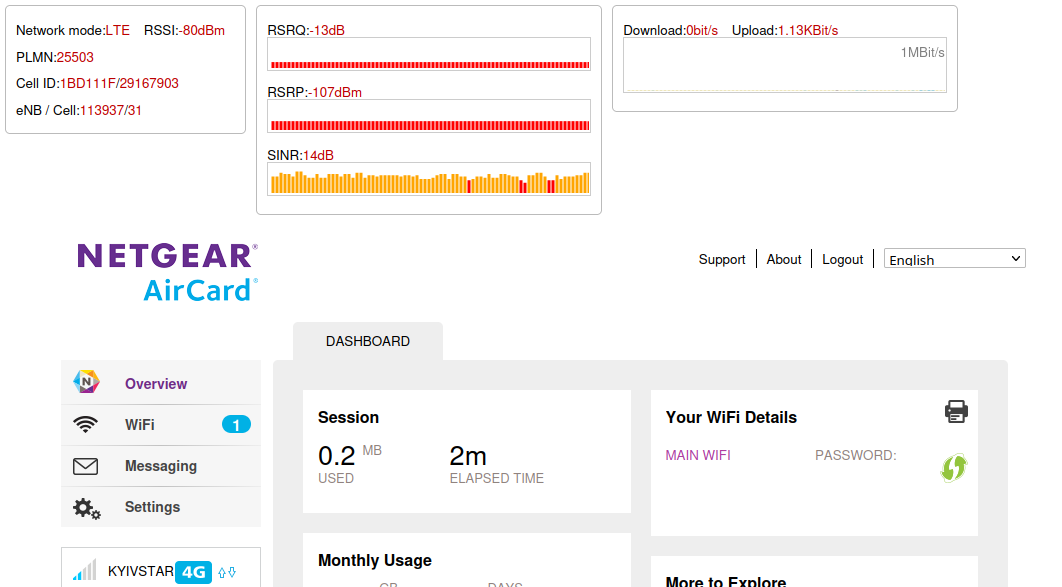
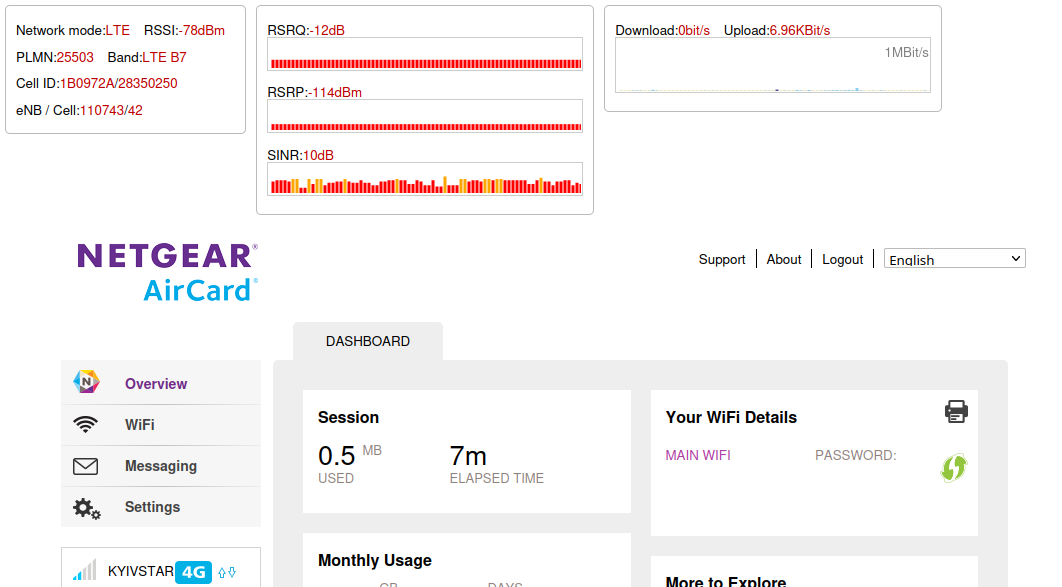
Add LTE band to Netgear dashboard
There is actually current band in Netgear device info, however this dashboard also shows actual number of CA bands

diff --git a/NetgearEAS.min.js b/NetgearEAS.min.js
@@ -1,1 +1,1 @@
-javascript:const UPDATE_MS=2e3,boxcar=78,gt=3,gw=boxcar*(gt+1),gh=30,ghd=1.75*gh,SIZE_KB=1024,SIZE_MB=1048576;let mode="",history={sinr:[],rsrp:[],rsrq:[],rscp:[],ecio:[],dl:0,ul:0,dlultime:0,dlul:[]};function formatBandwidth(bytesPerSec){bytesPerSec*=8;return bytesPerSec<SIZE_KB?bytesPerSec+"bit/s":bytesPerSec<SIZE_MB?(bytesPerSec/SIZE_KB).toFixed(2)+"KBit/s":(bytesPerSec/SIZE_MB).toFixed(2)+"MBit/s"}function getModeDescription(mode){switch(mode){case"GsmService":return"GSM";case"WcdmaService":return"WCDMA";case"LteService":return"LTE"}return"Unknown mode"}function setParam(param,val){try{document.getElementById(param).innerHTML=val}catch(param){}}function setVisible(id,visible){document.getElementById(id).style.display=visible?"block":"none"}function setMode(newMode){if(mode!==newMode){for(var k in mode=newMode,console.log("Network mode set to",mode),setVisible("status_3g",!1),setVisible("status_lte",!1),setVisible("u3g",!1),setVisible("ulte",!1),history)history[k]=Array.isArray(history[k])?[]:0;"WCDMA"===mode?(setVisible("status_3g",!0),setVisible("u3g",!0)):"LTE"===mode&&(setVisible("status_lte",!0),setVisible("ulte",!0))}}function barGraph(p,val,min,max){(val=max<val?max:val)<min&&(val=min),history[p].unshift(val),history[p].length>boxcar&&history[p].pop();let html=`<svg version="1.1" viewBox="0 0 ${gw} ${gh}" width="${gw}" height="${gh}" preserveAspectRatio="xMaxYMax slice" style="border:1px solid #ccc;padding:1px;margin-top:-6px;width:${gw}px;">`;for(let x=0;x<history[p].length;x++){var pax=(gt+1)*(x+1),pay=gh-1;let pby=gh-(history[p][x]-min)/(max-min)*gh;isNaN(pby)&&(pby=pay);var pc=(history[p][x]-min)/(max-min)*100;html+=`<line x1="${pax}" y1="${pay}" x2="${pax}" y2="${pby}" stroke="${pc<50?"red":pc<85?"orange":"green"}" stroke-width="${gt}"></line>`}html+="</svg>",document.getElementById("b"+p).innerHTML=html}function nearestFib(x){let f1=0,f2=1,fn=0;for(let n=1;n<20&&!(x<(fn=f1+f2));n++)f2=f1,f1=fn;return fn}function barGraphDlUl(p,valDl,valUl){history[p].unshift([8*valDl,8*valUl]),history[p].length>boxcar&&history[p].pop();var valDl=history[p].reduce((accum,current)=>[Math.max(accum[0],current[0]),Math.max(accum[1],current[1])]),valUl=nearestFib(Math.max(valDl[0],valDl[1])/SIZE_MB),maxPlot=valUl*SIZE_MB;let html=`<svg version="1.1" viewBox="0 0 ${gw} ${ghd}" width="${gw}" height="${ghd}" preserveAspectRatio="xMaxYMax slice" style="border:1px solid #ccc;padding:1px;margin-top:-6px;width:${gw}px;">`;for(let x=0;x<history[p].length;x++){var dl=history[p][x][0],ul=history[p][x][1],pax=(gt+1)*(x+1),pay=ghd-1,pbyDl=ghd*(1-dl/maxPlot),pbyUl=ghd*(1-ul/maxPlot);let pby1=pay,pby2=pay,color2="grey";color2=ul<dl?(pby1=pbyUl,pby2=pbyDl,"#332288"):(pby1=pbyDl,pby2=pbyUl,"#88CCEE"),html=(html+=`<line x1="${pax}" y1="${pay}" x2="${pax}" y2="${pby1}" stroke="#DDCC77" stroke-width="${gt}"></line>`)+`<line x1="${pax}" y1="${pby1}" x2="${pax}" y2="${pby2}" stroke="${color2}" stroke-width="${gt}"></line>`}html=html+`<text x="${gw}" y="6" dominant-baseline="hanging" text-anchor="end" style="fill:gray;">${valUl.toFixed(0)}MBit/s</text>`+"</svg>",document.getElementById("b"+p).innerHTML=html}function currentBand(){$.ajax({type:"GET",async:!0,url:"/api/model.json?internalapi=1",error:function(request,status,error){console.log("Error: Cannot get Signal data:",request.status,"\nmessage:",request.responseText,"\nerror:",error)},success:function(data){data=JSON.parse(data);if(data){var currentMode=getModeDescription(data.wwan.currentNWserviceType);let caStatus=data.wwan.ca.SCCcount;var fullMode=""+currentMode+(0===(caStatus=void 0===caStatus?0:caStatus)?"":"-A");let report="Network mode : "+fullMode;setParam("mode",fullMode),setMode(currentMode);fullMode=data.wwan.signalStrength.rssi+"dBm",currentMode=(report+=`\nRSSI : `+fullMode,setParam("rssi",fullMode),data.wwanadv.MCC+data.wwanadv.MNC),fullMode=(report+=`\nPLMN : `+currentMode,setParam("plmn",currentMode),data.wwanadv.cellId),currentMode=fullMode.toString(16).toUpperCase();if(report+=`\nCell ID : ${currentMode} / `+fullMode,setParam("cellidhex",currentMode),setParam("cellid",fullMode),"WCDMA"===mode){var currentMode=data.wwan.signalStrength.rscp,ecio=data.wwan.signalStrength.ecio,currentMode=(report+=`\nRSCP : ${currentMode}dBm EC/IO : ${ecio}dB`,setParam("rscp",currentMode+"dBm"),barGraph("rscp",currentMode,-100,-70),setParam("ecio",ecio+"dB"),barGraph("ecio",ecio,-10,-2),fullMode>>16),ecio=65535&fullMode,currentMode=(setParam("rnc",currentMode),Math.floor(ecio/10)),ecio=ecio-10*currentMode;setParam("nb",currentMode),setParam("cc",ecio)}else if("LTE"===mode){var currentMode=data.wwan.signalStrength.rsrq,ecio=data.wwan.signalStrength.rsrp,sinr=data.wwan.signalStrength.sinr,ecio=(report+=`\nRSRQ/RSRP/SINR : ${currentMode}dB/${ecio}dBm/${sinr}dB`,setParam("rsrp",ecio+"dBm"),barGraph("rsrp",ecio,-130,-60),setParam("rsrq",currentMode+"dB"),barGraph("rsrq",currentMode,-16,-3),setParam("sinr",sinr+"dB"),barGraph("sinr",sinr,0,24),fullMode>>8);const id=255&fullMode;setParam("enb",ecio),setParam("cell",id)}var dlRateStr,ulRateStr,currentMode=data.wwan.dataTransferredRx,sinr=data.wwan.dataTransferredTx,fullMode=(new Date).getTime();0!==history.dlultime&&(ecio=1e3/(fullMode-history.dlultime),data=0===history.dl?0:Math.floor((currentMode-history.dl)*ecio),ecio=0===history.ul?0:Math.floor((sinr-history.ul)*ecio),dlRateStr=formatBandwidth(data),ulRateStr=formatBandwidth(ecio),report+=`\nDownload : ${dlRateStr} Upload : `+ulRateStr,setParam("dl",dlRateStr),setParam("ul",ulRateStr),barGraphDlUl("dlul",data,ecio),history.dl=currentMode,history.ul=sinr),history.dlultime=fullMode,console.log(report)}}})}function statusHeader(){document.body.insertAdjacentHTML("afterbegin",'<style>#mode,#rssi,#plmn,#cellidhex,#cellid,#nb,#cc,#rnc,#enb,#cell,#rscp,#ecio,#rsrq,#rsrp,#sinr,#ul,#dl{color:#b00;font-weight:strong;}.f{float:left;border:1px solid #bbb;border-radius:5px;padding:10px;line-height:2em;margin:5px;}.f ul{margin:0;padding:0;}.f ul li{display:inline;margin-right:10px;}</style><div style="display:block;overflow:auto;"><div class="f" id="status_general"><ul><li>Network mode:<span id="mode">#</span></li><li>RSSI:<span id="rssi">#</span></li></ul><ul><li>PLMN:<span id="plmn">#</span></li></ul><ul><li>Cell ID:<span id="cellidhex">#</span>/<span id="cellid">#</span></li></ul><ul id="u3g"><li>NB / Cell:<span id="nb">#</span>/<span id="cc">#</span></li><li>RNC-ID:<span id="rnc">#</span></li></ul><ul id="ulte"><li>eNB / Cell:<span id="enb">#</span>/<span id="cell">#</span></li></ul></div><div class="f" id="status_3g">RSCP:<span id="rscp">#</span><div id="brscp"></div>EC/IO:<span id="ecio">#</span><div id="becio"></div></div><div class="f" id="status_lte">RSRQ:<span id="rsrq">#</span><div id="brsrq"></div>RSRP:<span id="rsrp">#</span><div id="brsrp"></div>SINR:<span id="sinr">#</span><div id="bsinr"></div></div><div class="f" id="bandwidth"><ul><li>Download:<span id="dl">#</span></li><li>Upload:<span id="ul">#</span></li></ul><div id="bdlul"></div></div></div>'),setInterval(currentBand,UPDATE_MS)}statusHeader();
+javascript:const UPDATE_MS=2e3,boxcar=78,gt=3,gw=boxcar*(gt+1),gh=30,ghd=1.75*gh,SIZE_KB=1024,SIZE_MB=1048576;let mode="",history={sinr:[],rsrp:[],rsrq:[],rscp:[],ecio:[],dl:0,ul:0,dlultime:0,dlul:[]};function formatBandwidth(bytesPerSec){bytesPerSec*=8;return bytesPerSec<SIZE_KB?bytesPerSec+"bit/s":bytesPerSec<SIZE_MB?(bytesPerSec/SIZE_KB).toFixed(2)+"KBit/s":(bytesPerSec/SIZE_MB).toFixed(2)+"MBit/s"}function getModeDescription(mode){switch(mode){case"GsmService":return"GSM";case"WcdmaService":return"WCDMA";case"LteService":return"LTE"}return"Unknown mode"}function setParam(param,val){try{document.getElementById(param).innerHTML=val}catch(param){}}function setVisible(id,visible,t="block"){document.getElementById(id).style.display=visible?t:"none"}function setMode(newMode){if(mode!==newMode){for(var k in mode=newMode,console.log("Network mode set to",mode),setVisible("status_3g",!1),setVisible("status_lte",!1),setVisible("u3g",!1),setVisible("ulte",!1),history)history[k]=Array.isArray(history[k])?[]:0;"WCDMA"===mode?(setVisible("status_3g",!0),setVisible("u3g",!0)):"LTE"===mode&&(setVisible("status_lte",!0),setVisible("ulte",!0))}}function barGraph(p,val,min,max){(val=max<val?max:val)<min&&(val=min),history[p].unshift(val),history[p].length>boxcar&&history[p].pop();let html=`<svg version="1.1" viewBox="0 0 ${gw} ${gh}" width="${gw}" height="${gh}" preserveAspectRatio="xMaxYMax slice" style="border:1px solid #ccc;padding:1px;margin-top:-6px;width:${gw}px;">`;for(let x=0;x<history[p].length;x++){var pax=(gt+1)*(x+1),pay=gh-1;let pby=gh-(history[p][x]-min)/(max-min)*gh;isNaN(pby)&&(pby=pay);var pc=(history[p][x]-min)/(max-min)*100;html+=`<line x1="${pax}" y1="${pay}" x2="${pax}" y2="${pby}" stroke="${pc<50?"red":pc<85?"orange":"green"}" stroke-width="${gt}"></line>`}html+="</svg>",document.getElementById("b"+p).innerHTML=html}function nearestFib(x){let f1=0,f2=1,fn=0;for(let n=1;n<20&&!(x<(fn=f1+f2));n++)f2=f1,f1=fn;return fn}function barGraphDlUl(p,valDl,valUl){history[p].unshift([8*valDl,8*valUl]),history[p].length>boxcar&&history[p].pop();var valDl=history[p].reduce((accum,current)=>[Math.max(accum[0],current[0]),Math.max(accum[1],current[1])]),valUl=nearestFib(Math.max(valDl[0],valDl[1])/SIZE_MB),maxPlot=valUl*SIZE_MB;let html=`<svg version="1.1" viewBox="0 0 ${gw} ${ghd}" width="${gw}" height="${ghd}" preserveAspectRatio="xMaxYMax slice" style="border:1px solid #ccc;padding:1px;margin-top:-6px;width:${gw}px;">`;for(let x=0;x<history[p].length;x++){var dl=history[p][x][0],ul=history[p][x][1],pax=(gt+1)*(x+1),pay=ghd-1,pbyDl=ghd*(1-dl/maxPlot),pbyUl=ghd*(1-ul/maxPlot);let pby1=pay,pby2=pay,color2="grey";color2=ul<dl?(pby1=pbyUl,pby2=pbyDl,"#332288"):(pby1=pbyDl,pby2=pbyUl,"#88CCEE"),html=(html+=`<line x1="${pax}" y1="${pay}" x2="${pax}" y2="${pby1}" stroke="#DDCC77" stroke-width="${gt}"></line>`)+`<line x1="${pax}" y1="${pby1}" x2="${pax}" y2="${pby2}" stroke="${color2}" stroke-width="${gt}"></line>`}html=html+`<text x="${gw}" y="6" dominant-baseline="hanging" text-anchor="end" style="fill:gray;">${valUl.toFixed(0)}MBit/s</text>`+"</svg>",document.getElementById("b"+p).innerHTML=html}function currentBand(){$.ajax({type:"GET",async:!0,url:"/api/model.json?internalapi=1",error:function(request,status,error){console.log("Error: Cannot get Signal data:",request.status,"\nmessage:",request.responseText,"\nerror:",error)},success:function(data){data=JSON.parse(data);if(data){var currentMode=getModeDescription(data.wwan.currentNWserviceType);let caStatus=data.wwan.ca.SCCcount;var fullMode=""+currentMode+(0===(caStatus=void 0===caStatus?0:caStatus)?"":"-A");let report="Network mode : "+fullMode;setParam("mode",fullMode),setMode(currentMode);fullMode=data.wwanadv.curBand,currentMode=(setParam("band",fullMode),setVisible("castat",0!==caStatus,"inline"),setParam("ca",caStatus),report+=`\nBand : `+fullMode,0!==caStatus&&(report+=`+${caStatus}CA`),data.wwan.signalStrength.rssi+"dBm"),fullMode=(report+=`\nRSSI : `+currentMode,setParam("rssi",currentMode),data.wwanadv.MCC+data.wwanadv.MNC),currentMode=(report+=`\nPLMN : `+fullMode,setParam("plmn",fullMode),data.wwanadv.cellId),fullMode=currentMode.toString(16).toUpperCase();if(report+=`\nCell ID : ${fullMode} / `+currentMode,setParam("cellidhex",fullMode),setParam("cellid",currentMode),"WCDMA"===mode){var fullMode=data.wwan.signalStrength.rscp,ecio=data.wwan.signalStrength.ecio,fullMode=(report+=`\nRSCP : ${fullMode}dBm EC/IO : ${ecio}dB`,setParam("rscp",fullMode+"dBm"),barGraph("rscp",fullMode,-100,-70),setParam("ecio",ecio+"dB"),barGraph("ecio",ecio,-10,-2),currentMode>>16),ecio=65535&currentMode,fullMode=(setParam("rnc",fullMode),Math.floor(ecio/10)),ecio=ecio-10*fullMode;setParam("nb",fullMode),setParam("cc",ecio)}else if("LTE"===mode){var fullMode=data.wwan.signalStrength.rsrq,ecio=data.wwan.signalStrength.rsrp,sinr=data.wwan.signalStrength.sinr,ecio=(report+=`\nRSRQ/RSRP/SINR : ${fullMode}dB/${ecio}dBm/${sinr}dB`,setParam("rsrp",ecio+"dBm"),barGraph("rsrp",ecio,-130,-60),setParam("rsrq",fullMode+"dB"),barGraph("rsrq",fullMode,-16,-3),setParam("sinr",sinr+"dB"),barGraph("sinr",sinr,0,24),currentMode>>8);const id=255&currentMode;setParam("enb",ecio),setParam("cell",id)}var dlRateStr,ulRateStr,fullMode=data.wwan.dataTransferredRx,sinr=data.wwan.dataTransferredTx,currentMode=(new Date).getTime();0!==history.dlultime&&(ecio=1e3/(currentMode-history.dlultime),data=0===history.dl?0:Math.floor((fullMode-history.dl)*ecio),ecio=0===history.ul?0:Math.floor((sinr-history.ul)*ecio),dlRateStr=formatBandwidth(data),ulRateStr=formatBandwidth(ecio),report+=`\nDownload : ${dlRateStr} Upload : `+ulRateStr,setParam("dl",dlRateStr),setParam("ul",ulRateStr),barGraphDlUl("dlul",data,ecio),history.dl=fullMode,history.ul=sinr),history.dlultime=currentMode,console.log(report)}}})}function statusHeader(){document.body.insertAdjacentHTML("afterbegin",'<style>#mode,#rssi,#plmn,#band,#ca,#cellidhex,#cellid,#nb,#cc,#rnc,#enb,#cell,#rscp,#ecio,#rsrq,#rsrp,#sinr,#ul,#dl{color:#b00;font-weight:strong;}.f{float:left;border:1px solid #bbb;border-radius:5px;padding:10px;line-height:2em;margin:5px;}.f ul{margin:0;padding:0;}.f ul li{display:inline;margin-right:10px;}</style><div style="display:block;overflow:auto;"><div class="f" id="status_general"><ul><li>Network mode:<span id="mode">#</span></li><li>RSSI:<span id="rssi">#</span></li></ul><ul><li>PLMN:<span id="plmn">#</span></li><li>Band:<span id="band">#</span><span id="castat">+<span id="ca">#</span>CA</span></li></ul><ul><li>Cell ID:<span id="cellidhex">#</span>/<span id="cellid">#</span></li></ul><ul id="u3g"><li>NB / Cell:<span id="nb">#</span>/<span id="cc">#</span></li><li>RNC-ID:<span id="rnc">#</span></li></ul><ul id="ulte"><li>eNB / Cell:<span id="enb">#</span>/<span id="cell">#</span></li></ul></div><div class="f" id="status_3g">RSCP:<span id="rscp">#</span><div id="brscp"></div>EC/IO:<span id="ecio">#</span><div id="becio"></div></div><div class="f" id="status_lte">RSRQ:<span id="rsrq">#</span><div id="brsrq"></div>RSRP:<span id="rsrp">#</span><div id="brsrp"></div>SINR:<span id="sinr">#</span><div id="bsinr"></div></div><div class="f" id="bandwidth"><ul><li>Download:<span id="dl">#</span></li><li>Upload:<span id="ul">#</span></li></ul><div id="bdlul"></div></div></div>'),setInterval(currentBand,UPDATE_MS)}statusHeader();

diff --git a/NetgearEAS.js b/NetgearEAS.js
@@ -41,7 +41,7 @@ function formatBandwidth(bytesPerSec) {
     const RATE_MBPS = "MBit/s";
 
     const bitsPerSec = bytesPerSec * 8;
-    
+
     if (bitsPerSec<SIZE_KB) {
         return `${bitsPerSec}${RATE_BPS}`;
     }
@@ -83,8 +83,8 @@ function setParam(param, val) {
  * @param {String} id Id of a block
  * @param {Boolean} visible Flag of visibility
  */
-function setVisible(id, visible) {
-    document.getElementById(id).style.display = visible ? "block" : "none";
+function setVisible(id, visible, t="block") {
+    document.getElementById(id).style.display = visible ? t : "none";
 }
 
 /**
@@ -138,11 +138,11 @@ function barGraph(p, val, min, max) {
 
 function nearestFib(x) {
     let f1=0, f2=1, fn = 0;
-  
+
     for (let n=1; n<20; n++) {
         fn = f1 + f2;
         if (x<fn) {
-          break;
+            break;
         }
         f2 = f1;
         f1 = fn;
@@ -157,7 +157,7 @@ function barGraphDlUl(p, valDl, valUl) {
     let maxDlUl = history[p].reduce( (accum,current) => [Math.max(accum[0],current[0]),Math.max(accum[1],current[1])] );
     maxDlUl = Math.max(maxDlUl[0], maxDlUl[1]);
     const maxMb = nearestFib(maxDlUl / SIZE_MB);
-    
+
     const maxPlot = maxMb * SIZE_MB;
 
     const MARGIN=6;
@@ -218,6 +218,13 @@ function currentBand() {
                 setParam("mode", fullMode);
                 setMode(currentMode);
 
+                const band = doc.wwanadv.curBand;
+                setParam("band", band);
+                setVisible("castat", caStatus!==0, "inline");
+                setParam("ca", caStatus);
+                report += `\nBand : ${band}`;
+                if (caStatus!==0) report+=`+${caStatus}CA`;
+
                 const rssi = `${doc.wwan.signalStrength.rssi}dBm`;
                 report += `\nRSSI : ${rssi}`;
                 setParam("rssi", rssi);
@@ -236,7 +243,7 @@ function currentBand() {
                     const rscp = doc.wwan.signalStrength.rscp;
                     const ecio = doc.wwan.signalStrength.ecio;
                     report += `\nRSCP : ${rscp}dBm EC/IO : ${ecio}dB`;
-                    
+
                     setParam("rscp", `${rscp}dBm`); barGraph("rscp", rscp, -100, -70);
                     setParam("ecio", `${ecio}dB`); barGraph("ecio", ecio, -10, -2);
 
@@ -254,7 +261,7 @@ function currentBand() {
                     const rsrp = doc.wwan.signalStrength.rsrp;
                     const sinr = doc.wwan.signalStrength.sinr;
                     report += `\nRSRQ/RSRP/SINR : ${rsrq}dB/${rsrp}dBm/${sinr}dB`;
-                    
+
                     setParam("rsrp", `${rsrp}dBm`); barGraph("rsrp", rsrp, -130, -60);
                     setParam("rsrq", `${rsrq}dB`); barGraph("rsrq", rsrq, -16, -3);
                     setParam("sinr", `${sinr}dB`); barGraph("sinr", sinr, 0, 24);
@@ -277,11 +284,11 @@ function currentBand() {
                     const dlRateStr = formatBandwidth(dlRate);
                     const ulRateStr = formatBandwidth(ulRate);
                     report += `\nDownload : ${dlRateStr} Upload : ${ulRateStr}`;
-        
+
                     setParam("dl", dlRateStr);
                     setParam("ul", ulRateStr);
                     barGraphDlUl("dlul", dlRate, ulRate);
-    
+
                     history.dl = dl;
                     history.ul = ul;
                 }
@@ -299,6 +306,7 @@ const header = `<style>
     #mode,
     #rssi,
     #plmn,
+    #band,#ca,
     #cellidhex,#cellid,
     #nb,#cc,#rnc,
     #enb,#cell,
@@ -340,6 +348,7 @@ const header = `<style>
         </ul>
         <ul>
             <li>PLMN:<span id="plmn">#</span></li>
+            <li>Band:<span id="band">#</span><span id="castat">+<span id="ca">#</span>CA</span></li>
         </ul>
         <ul>
             <li>Cell ID:<span id="cellidhex">#</span>/<span id="cellid">#</span></li>
